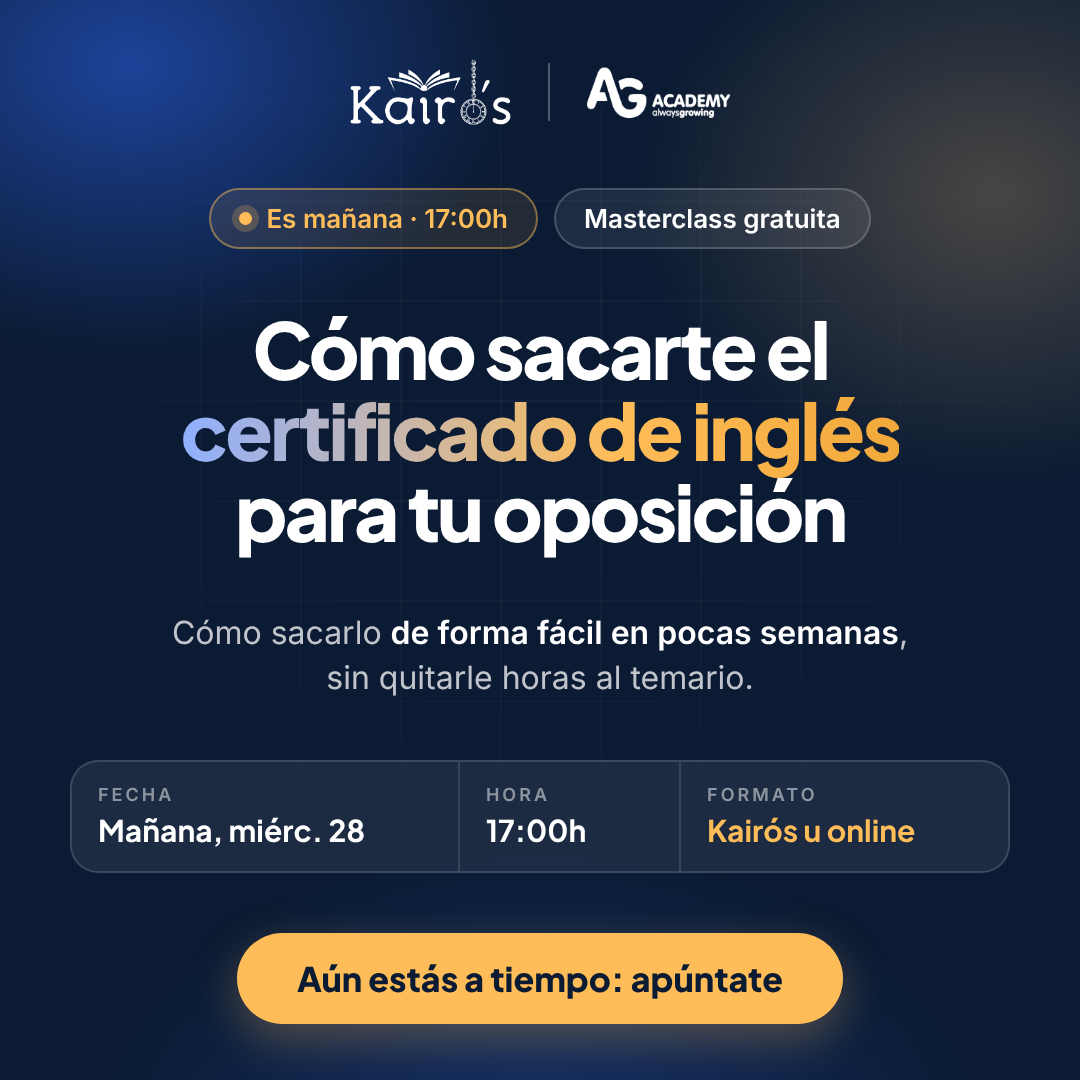
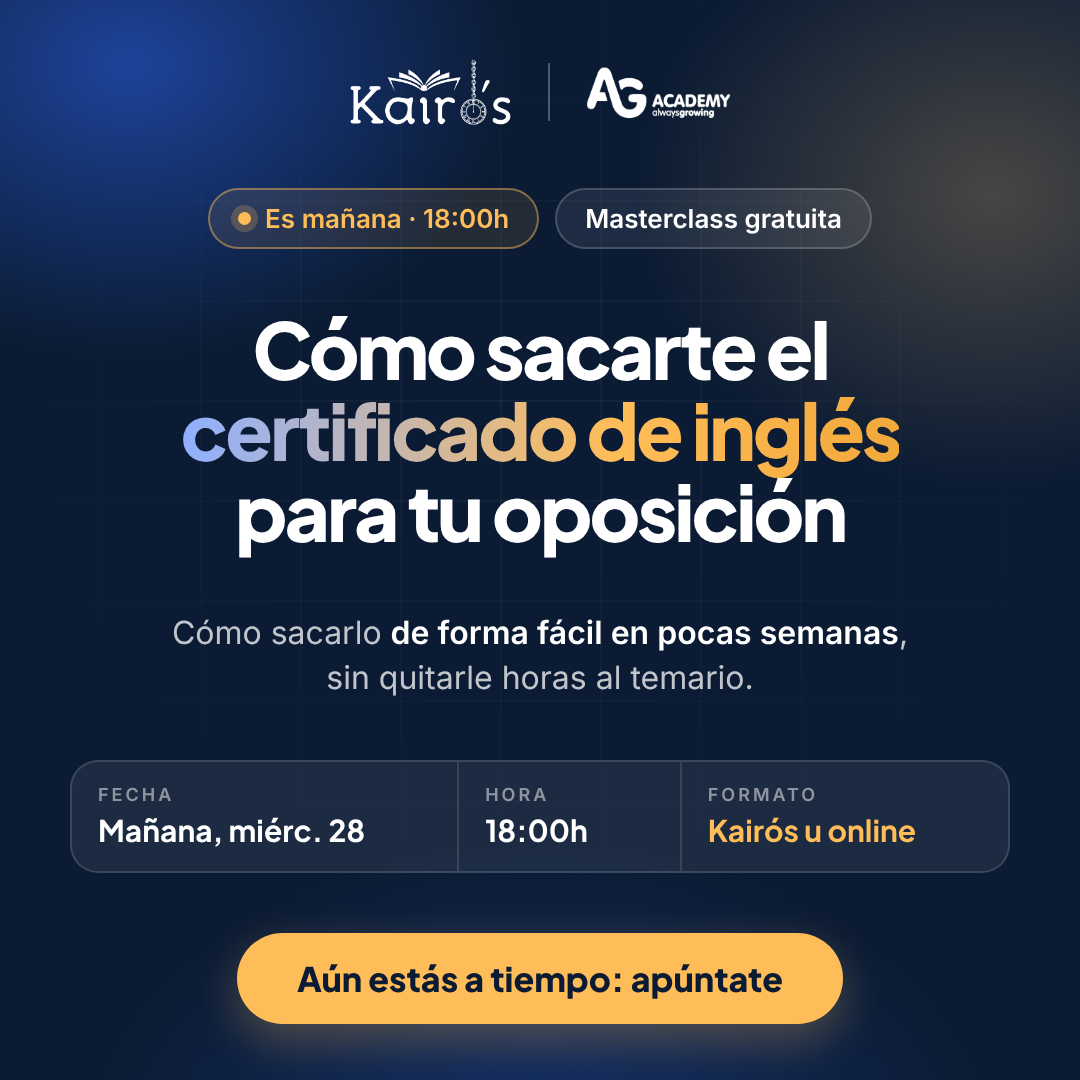
Kairós: hora del aviso de mañana a las 18:00h
Claude-Session: https://claude.ai/code/session_01K3kACsC7VJzSCraEBbfL27

diff --git a/landings/kairos/difusion/comunicaciones-aviso-manana.md b/landings/kairos/difusion/comunicaciones-aviso-manana.md
@@ -1,5 +1,5 @@
 # Comunicaciones del día antes — Kairós × AG Academy
-Envío: hoy martes 27 de octubre. Masterclass: mañana miércoles 28 · 17:00h · Academia Kairós u online
+Envío: hoy martes 27 de octubre. Masterclass: mañana miércoles 28 · 18:00h · Academia Kairós u online
 
 Landing: https://www.agacademyaptis.com/kairos-ag-academy-21-10-2026
 Grupo inscritos: https://chat.whatsapp.com/GmUdOay7QA88JBxvQyMVfC?mode=gi_t
@@ -11,13 +11,13 @@ Imágenes: whatsapp-aviso-manana-kairos.png (1080x1080) · historia-aviso-manana
 Envío: hoy por la tarde (17:00–19:00h).
 Firma: Equipo Kairós
 
-Asunto: Mañana a las 17:00h, el inglés
+Asunto: Mañana a las 18:00h, el inglés
 Asunto alternativo: ¿Vienes mañana a la masterclass?
 Preheader: Gratis, en la academia u online. Aún puedes apuntarte.
 
 Hola,
 
-Mañana miércoles a las 17:00h hacemos la masterclass con AG Academy sobre el certificado de inglés para la oposición.
+Mañana miércoles a las 18:00h hacemos la masterclass con AG Academy sobre el certificado de inglés para la oposición.
 
 Sabemos que es de esas cosas que siempre se quedan para "cuando tenga tiempo". Pero ese certificado son puntos en el baremo, y es una pena dejárselos cuando se pueden sacar en pocas semanas.
 
@@ -42,12 +42,12 @@ Envío: hoy a las 19:00h.
 Firma: Jesu
 
 Asunto: Mañana nos vemos, {{ first_name }}
-Asunto alternativo: Todo listo para mañana a las 17:00h
+Asunto alternativo: Todo listo para mañana a las 18:00h
 Preheader: Te cuento cómo va a ir la masterclass.
 
 Hola, {{ first_name }}:
 
-Mañana miércoles a las 17:00h nos vemos en la masterclass con Kairós, y quería escribirte antes para contarte cómo va a ir.
+Mañana miércoles a las 18:00h nos vemos en la masterclass con Kairós, y quería escribirte antes para contarte cómo va a ir.
 
 Sé que entre temas, supuestos y programación casi no queda hueco, y que el inglés es lo que siempre se queda para el final. Mañana te voy a enseñar qué certificado y qué nivel te puntúan de verdad, cómo prepararlo sin quitarle horas al temario y cómo sacarlo de forma fácil en pocas semanas.
 
@@ -64,7 +64,7 @@ Jesu
 
 ## WHATSAPP · Kairós a sus grupos de alumnos (con whatsapp-aviso-manana-kairos.png)
 
-Mañana miércoles a las 17:00h es la masterclass del certificado de inglés con AG Academy 🎓
+Mañana miércoles a las 18:00h es la masterclass del certificado de inglés con AG Academy 🎓
 
 Os contamos cómo sacarlo de forma fácil en pocas semanas y sumar esos puntos al baremo, sin quitarle horas al temario. Podéis venir a la academia o conectaros online.
 
@@ -77,7 +77,7 @@ https://www.agacademyaptis.com/kairos-ag-academy-21-10-2026?utm_source=kairos&ut
 
 Buenas tardes a todos 👋
 
-Soy Jesu, de AG Academy. Mañana a las 17:00h nos vemos en la masterclass con Kairós, y quería escribiros hoy para que lo tengáis todo listo.
+Soy Jesu, de AG Academy. Mañana a las 18:00h nos vemos en la masterclass con Kairós, y quería escribiros hoy para que lo tengáis todo listo.
 
 Sé que entre temas, supuestos y programación casi no os queda tiempo, y que el inglés siempre acaba en el último lugar de la lista. Precisamente de eso va la clase de mañana. Os voy a contar qué certificado y qué nivel os puntúan de verdad en el baremo, cómo prepararlo sin quitarle horas al temario y cómo sacarlo de forma fácil en pocas semanas.
 
